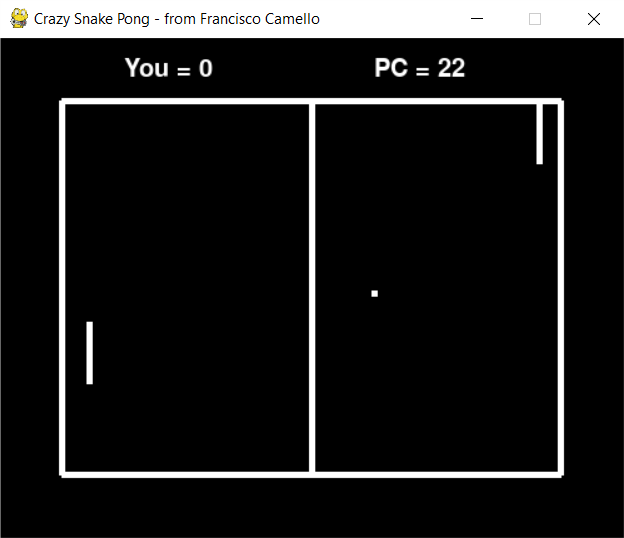
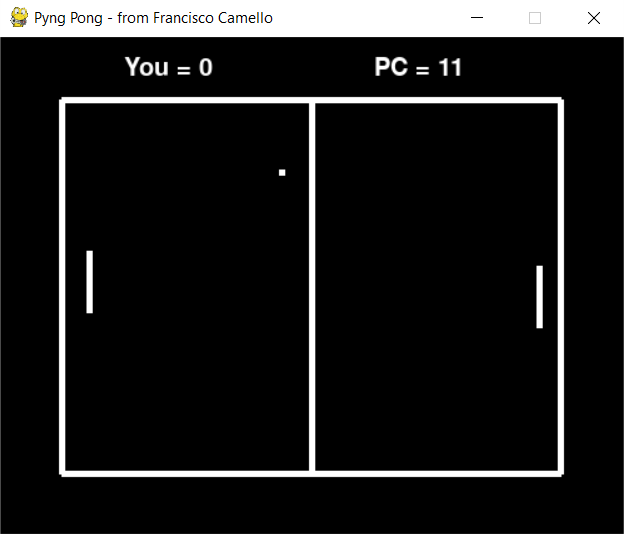
Adds new print screen

diff --git a/main.py b/main.py
@@ -17,7 +17,7 @@ class Main_Game():
         """ Constructor """
 
         pygame.init()
-        pygame.display.set_caption('Crazy Snake Pong - from Francisco Camello')
+        pygame.display.set_caption('Pyng Pong - from Francisco Camello')
         self.FONTSIZE = 20
         self.FONT = pygame.font.Font('freesansbold.ttf', self.FONTSIZE)
         self.SCREEN_WIDTH = 500

diff --git a/README.md b/README.md
@@ -1,4 +1,4 @@
-# CrazySnakePong
+# Pyng Pong
 
 It's a retelling of Atari's famous Pong game using the pygame.
 
